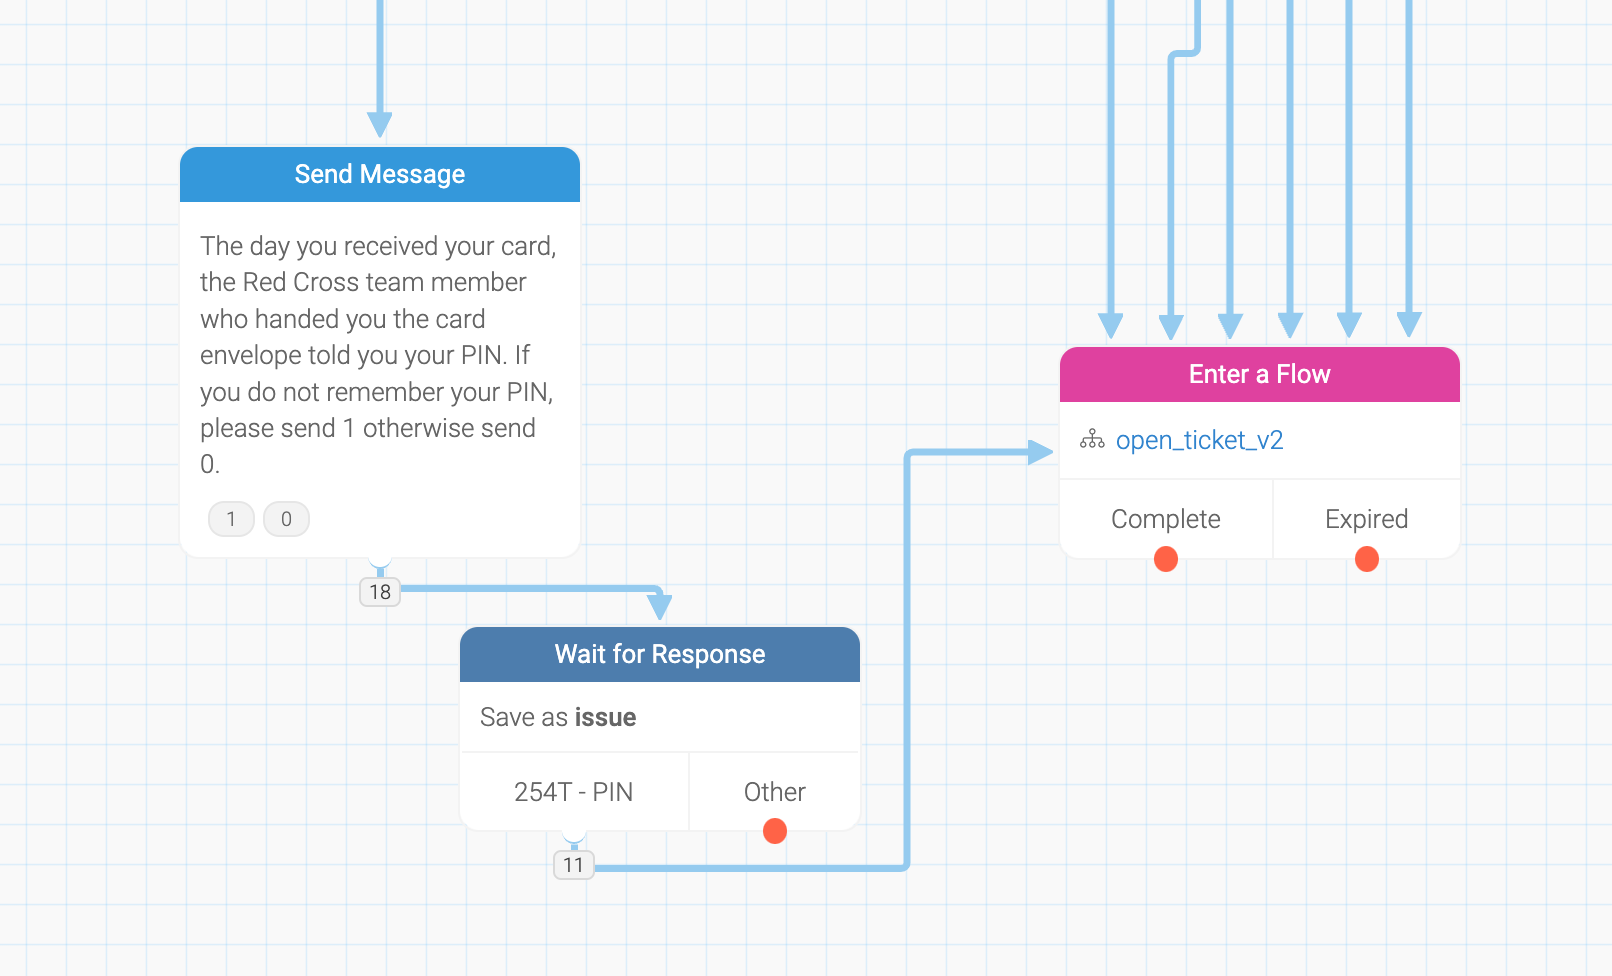
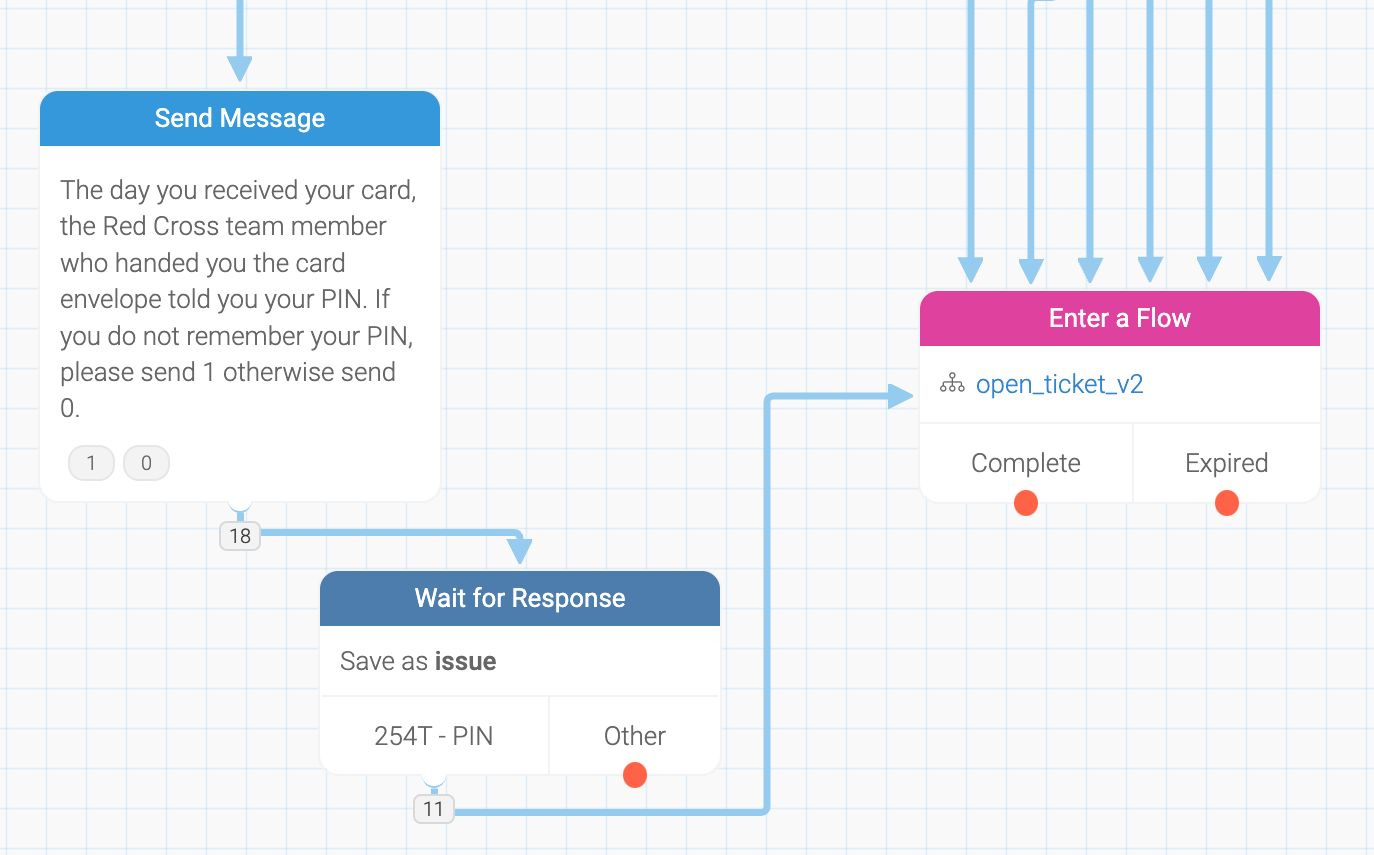
adjusting image size for better viewing

diff --git a/_posts/2022-05-15-textit-for-faq-bot.md b/_posts/2022-05-15-textit-for-faq-bot.md
@@ -4,7 +4,7 @@ title: "Creating a Viber bot in Poland with TextIt"
 date: 2022-05-15
 description:
 image: /img/posts/20220515_intro.png
-caption: ""
+caption: "Users could set their language preference and then access an automated information service."
 author: [Dan Joseph]
 tags:
   - open source
@@ -54,8 +54,8 @@ In working with my colleagues to organize the information they wanted the chatbo
 
 I started the chatbot flow with a check to see if someone had interacted with it before and set a language preference. If they are a new user then they are asked to set a language. We authored the flow in English and translated it to Polish, Ukrainian, and Russian. After we know their preferred language, the user can choose one of three categories of information. Since a flow can easily get large enough that it is hard to manage within one layout, I split each category out into its own layout.
 
-![screen shot from TextIt showing the opener flow for language preference and category selection](/img/posts/20220515_info-bot-flow.png)
-<br><span class="post-caption">The opening flow that lets a user set their language preference and select a category of interest.</span>
+![screen shot from TextIt showing the language preference selection](/img/posts/20220515_info-bot-flow.png)
+<br><span class="post-caption">The part of the opening flow that lets a user set their language preference.</span>
 
 ![screen shot from TextIt showing the start of the "essential services" category flow](/img/posts/20220515_essential-services-flow.png)
 <br><span class="post-caption">The start of the "essential services" category flow showing topics, questions, and information messages. </span>
@@ -73,7 +73,7 @@ Opening a ticket paused the automated flows and triggered an email alert to the 
 To translate the messages, you can toggle the language in the top right of the flow build interface. Messages in the flow that still need to be translated are highlighted with a yellow fill and red text. However, if you change the main language wording after translations are finished you’ll need to manually track which translations need to be updated.  
 
 ![screen shots showing how a message in the flow is translated](/img/posts/20220515_translation.png)
-<br><span class="post-caption">Messages (from left to right) in English, awaiting translation, and Ukrainian.</span>
+<br><span class="post-caption">A programmed message (from left to right) in English, awaiting translation, and Ukrainian.</span>
 
 The ticketing dashboard interface was simple but effective and met our immediate needs.
 
@@ -82,13 +82,13 @@ The ticketing dashboard interface was simple but effective and met our immediate
 
 The built-in analytics dashboard let us analyze what time of day and day of the week had the most users, as well as track usage over time.
 
-![screen shot of graphs and charts showing days and times users interacted with the bot](/img/posts/20220515_analytics-1.png)
-<br><span class="post-caption">Analytics of the days and times when users were interacting with the bot.</span>
+![screen shot of graphs and charts showing daily history and days of the week users interacted with the bot](/img/posts/20220515_analytics-1.png)
+<br><span class="post-caption">Analytics of the daily history and days of the week when users were interacting with the bot.</span>
 
-The dashboard also let us look at the distribution of responses in the flow. Here you can see that 12% of users requested the Russian version. Some 65% were not enrolled for cash assistance and interested in learning how to register.
+The dashboard also let us look at the distribution of responses in the flow. Here you can see that 12% of users requested the Russian version.
 
-![screen shot of graphs showing percentage responses for language and category selections](/img/posts/20220515_analytics-2.png)
-<br><span class="post-caption">Analytics of the user choices for language and category selections.</span>
+![screen shot of graphs showing percentage responses for language preference](/img/posts/20220515_analytics-2.png)
+<br><span class="post-caption">Analytics of the user choices for language preference.</span>
 
 ## Future thoughts
 
